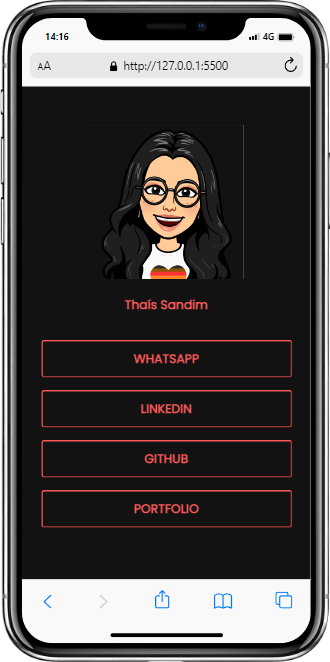
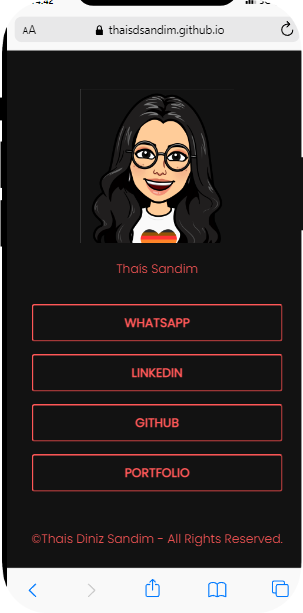
readme adjust

diff --git a/README.md b/README.md
@@ -1,4 +1,4 @@
-# <img align="center" src="https://user-images.githubusercontent.com/96362469/180333961-bead58cf-0b2f-477b-b5f5-62b059c7db36.png"/>
+# <img align="center" src=""/>
 
 <p align="left">
 <img src="http://img.shields.io/static/v1?label=STATUS&message=UNDER%20DEVELOPMENT&color=GREEN&style=for-the-badge"/>
@@ -6,7 +6,8 @@
 
 Project developed for the Full-Stack Developer course at Gama Academy. Dindin is a fictional financial education course website.
 
-![dindin](https://user-images.githubusercontent.com/96362469/180334709-1d9f5321-a8b3-451e-8098-9f237295483e.PNG)
+![dindin](img/desktop.png)
+![dindin](img/mobile.png)
 
 ## :hammer: Functionalities
 
@@ -16,7 +17,7 @@ Project developed for the Full-Stack Developer course at Gama Academy. Dindin is
 
 ## 📁 Project access
 
-You can access the page [here](https://thaisdsandim.github.io/dindin-cursos/index.html).
+You can access the page [here](https://thaisdsandim.github.io/social-tree/).
 
 ## ✔ Tools used
 
